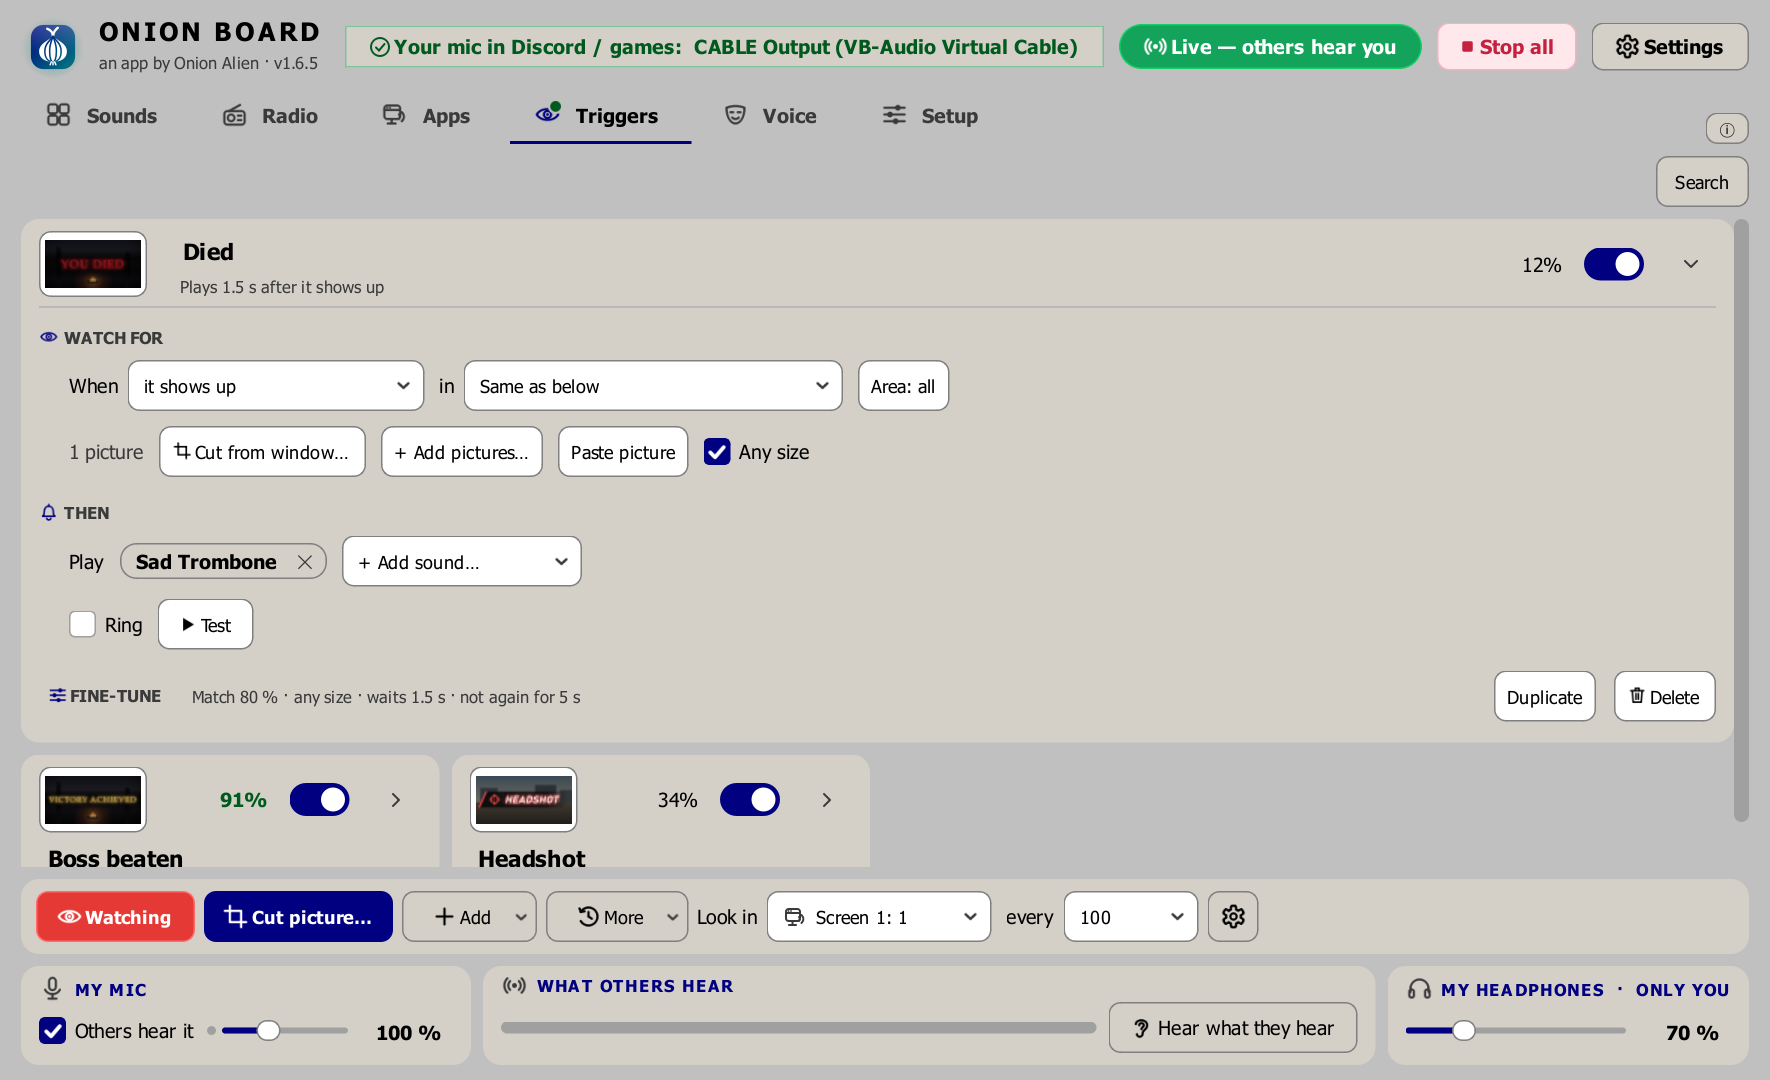
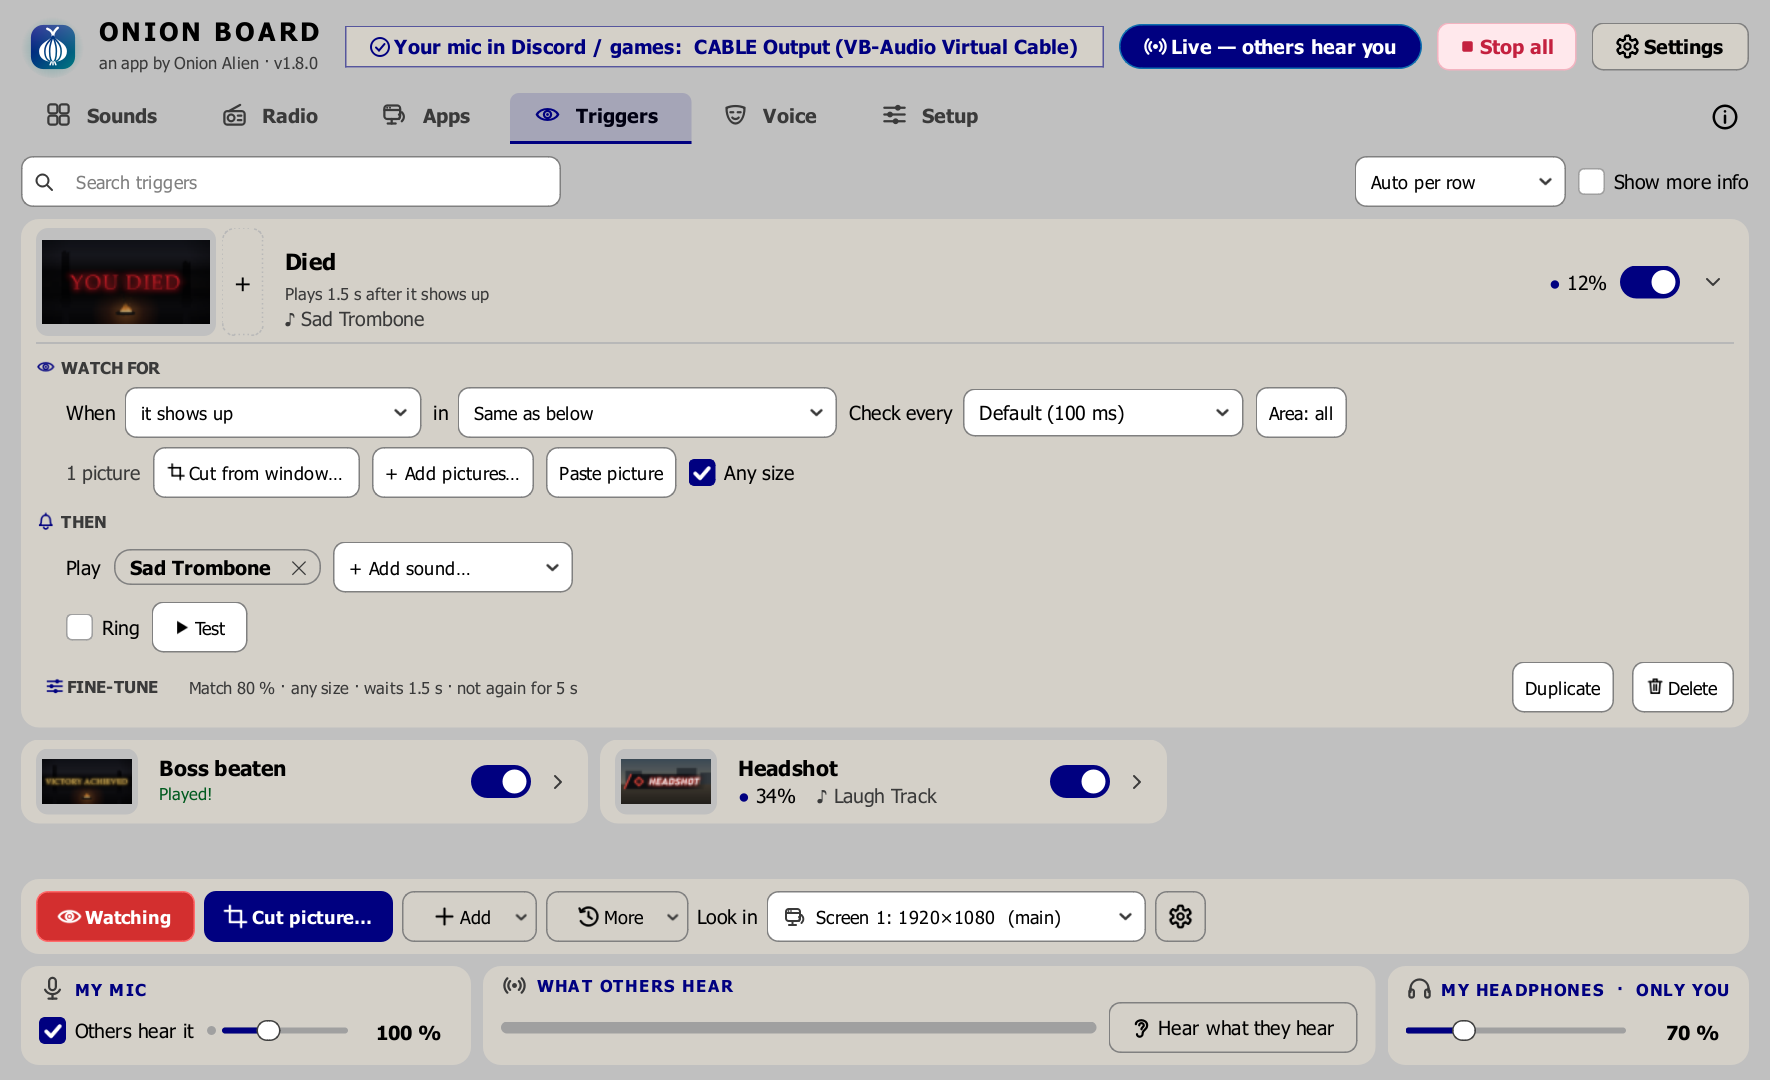
README and website: 1.8.0, its VirusTotal scan (68 of 68 clean), new screenshots
Every picture re-rendered with scripts/docs.py (Retro 98, Onion Watch 0.7.0 in
the Triggers tab): the Voice tab's AI voices card, the Apps tab's Clip editor,
1.8.0 in the title, and 0.7.0's trigger cards.

diff --git a/docs/index.html b/docs/index.html
@@ -7,7 +7,7 @@
 <meta name="description" content="Free Windows soundboard: play sounds into Discord and games through your mic. In-game hotkeys, an overlay, effects, a voice changer, text-to-speech, instant replay, and screen triggers that play a sound when something shows up, like YOU DIED.">
 <meta property="og:title" content="Onion Board: free soundboard for Discord and games">
 <meta property="og:description" content="Play sounds through your mic in Discord and games. Voice changer, text-to-speech, and screen triggers that play a sound when you die.">
-<meta property="og:image" content="https://onion-alien.github.io/onion-board/screenshots/sounds.png?v=f0ba4727">
+<meta property="og:image" content="https://onion-alien.github.io/onion-board/screenshots/sounds.png?v=98627e2c">
 <meta property="og:type" content="website">
 <meta name="twitter:card" content="summary_large_image">
 <link rel="canonical" href="https://onion-alien.github.io/onion-board/">
@@ -18,7 +18,7 @@
  "description": "Free Windows soundboard: play sounds into Discord and games through your mic, with a voice changer, text-to-speech, in-game hotkeys and screen triggers.",
  "url": "https://onion-alien.github.io/onion-board/",
  "downloadUrl": "https://github.com/Onion-Alien/onion-board/releases/latest/download/OnionBoardSetup.exe",
- "screenshot": "https://onion-alien.github.io/onion-board/screenshots/sounds.png?v=f0ba4727",
+ "screenshot": "https://onion-alien.github.io/onion-board/screenshots/sounds.png?v=98627e2c",
  "offers": {"@type": "Offer", "price": "0", "priceCurrency": "USD"}}
 </script>
 <style>
@@ -68,11 +68,11 @@
       your friends in Discord or your game hear it through your mic.</p>
     <a class="dl" href="https://github.com/Onion-Alien/onion-board/releases/latest/download/OnionBoardSetup.exe" data-goatcounter-click="download-home-top">⬇ Download for Windows</a>
     <!-- release -->
-    <p class="small">Version 1.7.2 · Windows 10 / 11 · free, no account, no ads, no tracking<br>
-      <a href="https://www.virustotal.com/gui/file/2115334287abfef0051c8d21437265cbffe877f004254eddb15d38dfe537c21a">VirusTotal: 68 of 68 clean</a> ·
+    <p class="small">Version 1.8.0 · Windows 10 / 11 · free, no account, no ads, no tracking<br>
+      <a href="https://www.virustotal.com/gui/file/3fdbbb28e226d326210edd0ac5769d763ae31fd7637dac68b06df852e836be1c">VirusTotal: 68 of 68 clean</a> ·
       <a href="https://github.com/Onion-Alien/onion-board/releases/latest">what's new</a></p>
     <!-- /release -->
-    <img class="hero" src="screenshots/sounds.png?v=f0ba4727" width="1770" height="1080" alt="Onion Board's sound pads">
+    <img class="hero" src="screenshots/sounds.png?v=98627e2c" width="1770" height="1080" alt="Onion Board's sound pads">
   </header>
 
   <h2>What it does</h2>
@@ -90,10 +90,10 @@
 
   <h2>A closer look</h2>
   <div class="grid shots">
-    <figure><img src="screenshots/voice.png?v=95206240" alt="The Voice tab" loading="lazy"><figcaption>Voice changer and text-to-speech</figcaption></figure>
-    <figure><img src="screenshots/triggers.png?v=fe03457b" alt="The Triggers tab" loading="lazy"><figcaption>Triggers: a sound when something shows up in your game</figcaption></figure>
-    <figure><img src="screenshots/apps.png?v=d72ae89c" alt="The Apps tab" loading="lazy"><figcaption>Send one program's sound to your friends</figcaption></figure>
-    <figure><img src="screenshots/setup.png?v=d6a23526" alt="The Setup tab" loading="lazy"><figcaption>Setup shows at a glance whether they can hear you</figcaption></figure>
+    <figure><img src="screenshots/voice.png?v=96465201" alt="The Voice tab" loading="lazy"><figcaption>Voice changer and text-to-speech</figcaption></figure>
+    <figure><img src="screenshots/triggers.png?v=7a4f009b" alt="The Triggers tab" loading="lazy"><figcaption>Triggers: a sound when something shows up in your game</figcaption></figure>
+    <figure><img src="screenshots/apps.png?v=c3da8321" alt="The Apps tab" loading="lazy"><figcaption>Send one program's sound to your friends</figcaption></figure>
+    <figure><img src="screenshots/setup.png?v=17983aac" alt="The Setup tab" loading="lazy"><figcaption>Setup shows at a glance whether they can hear you</figcaption></figure>
   </div>
 
   <h2>Get started</h2>

diff --git a/docs/discord-soundboard/index.html b/docs/discord-soundboard/index.html
@@ -7,7 +7,7 @@
 <meta name="description" content="Play any sound or song through your mic in Discord voice chat, with hotkeys that work in-game. Free Windows soundboard, no Nitro, no length limit. Step-by-step setup.">
 <meta property="og:title" content="How to play sounds through your mic in Discord">
 <meta property="og:description" content="Free Windows soundboard: any sound, any length, hotkeys that work in-game. Setup takes two minutes.">
-<meta property="og:image" content="https://onion-alien.github.io/onion-board/screenshots/sounds.png?v=f0ba4727">
+<meta property="og:image" content="https://onion-alien.github.io/onion-board/screenshots/sounds.png?v=98627e2c">
 <meta property="og:type" content="article">
 <meta name="twitter:card" content="summary_large_image">
 <link rel="canonical" href="https://onion-alien.github.io/onion-board/discord-soundboard/">
@@ -46,7 +46,7 @@
       suppression treats music and sound effects as background noise and cuts them out.</li>
     <li>Drag sound files onto the Onion Board window and double-click a pad. Everyone in the call hears it.</li>
   </ol>
-  <img src="../screenshots/sounds.png?v=f0ba4727" alt="Onion Board's sound pads" loading="lazy" width="1100" height="736">
+  <img src="../screenshots/sounds.png?v=98627e2c" alt="Onion Board's sound pads" loading="lazy" width="1100" height="736">
 
   <h2>Play sounds while you're in a game</h2>
   <p>Right-click a pad and give it a <b>hotkey</b>. Hotkeys work even while a fullscreen game has

diff --git a/docs/free-soundpad-alternative/index.html b/docs/free-soundpad-alternative/index.html
@@ -7,7 +7,7 @@
 <meta name="description" content="Looking for a free alternative to Soundpad or Voicemod? Onion Board is a free Windows soundboard with a voice changer, text-to-speech, in-game hotkeys and screen triggers. No account, no ads.">
 <meta property="og:title" content="A free Soundpad and Voicemod alternative">
 <meta property="og:description" content="Free Windows soundboard with a voice changer, text-to-speech, in-game hotkeys and screen triggers.">
-<meta property="og:image" content="https://onion-alien.github.io/onion-board/screenshots/sounds.png?v=f0ba4727">
+<meta property="og:image" content="https://onion-alien.github.io/onion-board/screenshots/sounds.png?v=98627e2c">
 <meta property="og:type" content="article">
 <meta name="twitter:card" content="summary_large_image">
 <link rel="canonical" href="https://onion-alien.github.io/onion-board/free-soundpad-alternative/">
@@ -58,7 +58,7 @@
     banner or a kill icon, and it plays a sound the moment that picture shows up. Set a sad
     trombone for every death and never press a key. It watches the game's own window, works
     behind other windows, and runs entirely on your PC.</p>
-  <img src="../screenshots/triggers.png?v=fe03457b" alt="Onion Board's Triggers tab" loading="lazy" width="1100" height="736">
+  <img src="../screenshots/triggers.png?v=7a4f009b" alt="Onion Board's Triggers tab" loading="lazy" width="1100" height="736">
 
   <h2>Switching over</h2>
   <ol>

diff --git a/README.md b/README.md
@@ -9,18 +9,18 @@ Or send it to your stream, or keep it to your own headphones.
 ## ⬇ [Download Onion Board for Windows](../../releases/latest/download/OnionBoardSetup.exe)
 
 <!-- release -->
-Version **1.7.2** · Windows 10 / 11 · free, no account, no ads, no tracking ·
-[VirusTotal: 68 of 68 clean](https://www.virustotal.com/gui/file/2115334287abfef0051c8d21437265cbffe877f004254eddb15d38dfe537c21a) ·
+Version **1.8.0** · Windows 10 / 11 · free, no account, no ads, no tracking ·
+[VirusTotal: 68 of 68 clean](https://www.virustotal.com/gui/file/3fdbbb28e226d326210edd0ac5769d763ae31fd7637dac68b06df852e836be1c) ·
 [what's new](CHANGELOG.md)
 <!-- /release -->
 
-![Onion Board's sound pads](docs/screenshots/sounds.png?v=f0ba4727)
+![Onion Board's sound pads](docs/screenshots/sounds.png?v=98627e2c)
 
 | | |
 |---|---|
-| ![Voice changer and text-to-speech](docs/screenshots/voice.png?v=95206240) | ![Screen triggers](docs/screenshots/triggers.png?v=fe03457b) |
+| ![Voice changer and text-to-speech](docs/screenshots/voice.png?v=96465201) | ![Screen triggers](docs/screenshots/triggers.png?v=7a4f009b) |
 | **Voice**: change your voice live, or type and a computer voice says it | **Triggers**: a sound the moment "YOU DIED" shows up in your game |
-| ![Send a program's sound](docs/screenshots/apps.png?v=d72ae89c) | ![Setup at a glance](docs/screenshots/setup.png?v=d6a23526) |
+| ![Send a program's sound](docs/screenshots/apps.png?v=c3da8321) | ![Setup at a glance](docs/screenshots/setup.png?v=17983aac) |
 | **Apps**: send one program's sound (music, a video) to your friends | **Setup**: one look tells you whether others can hear you |
 
 ## What it does
